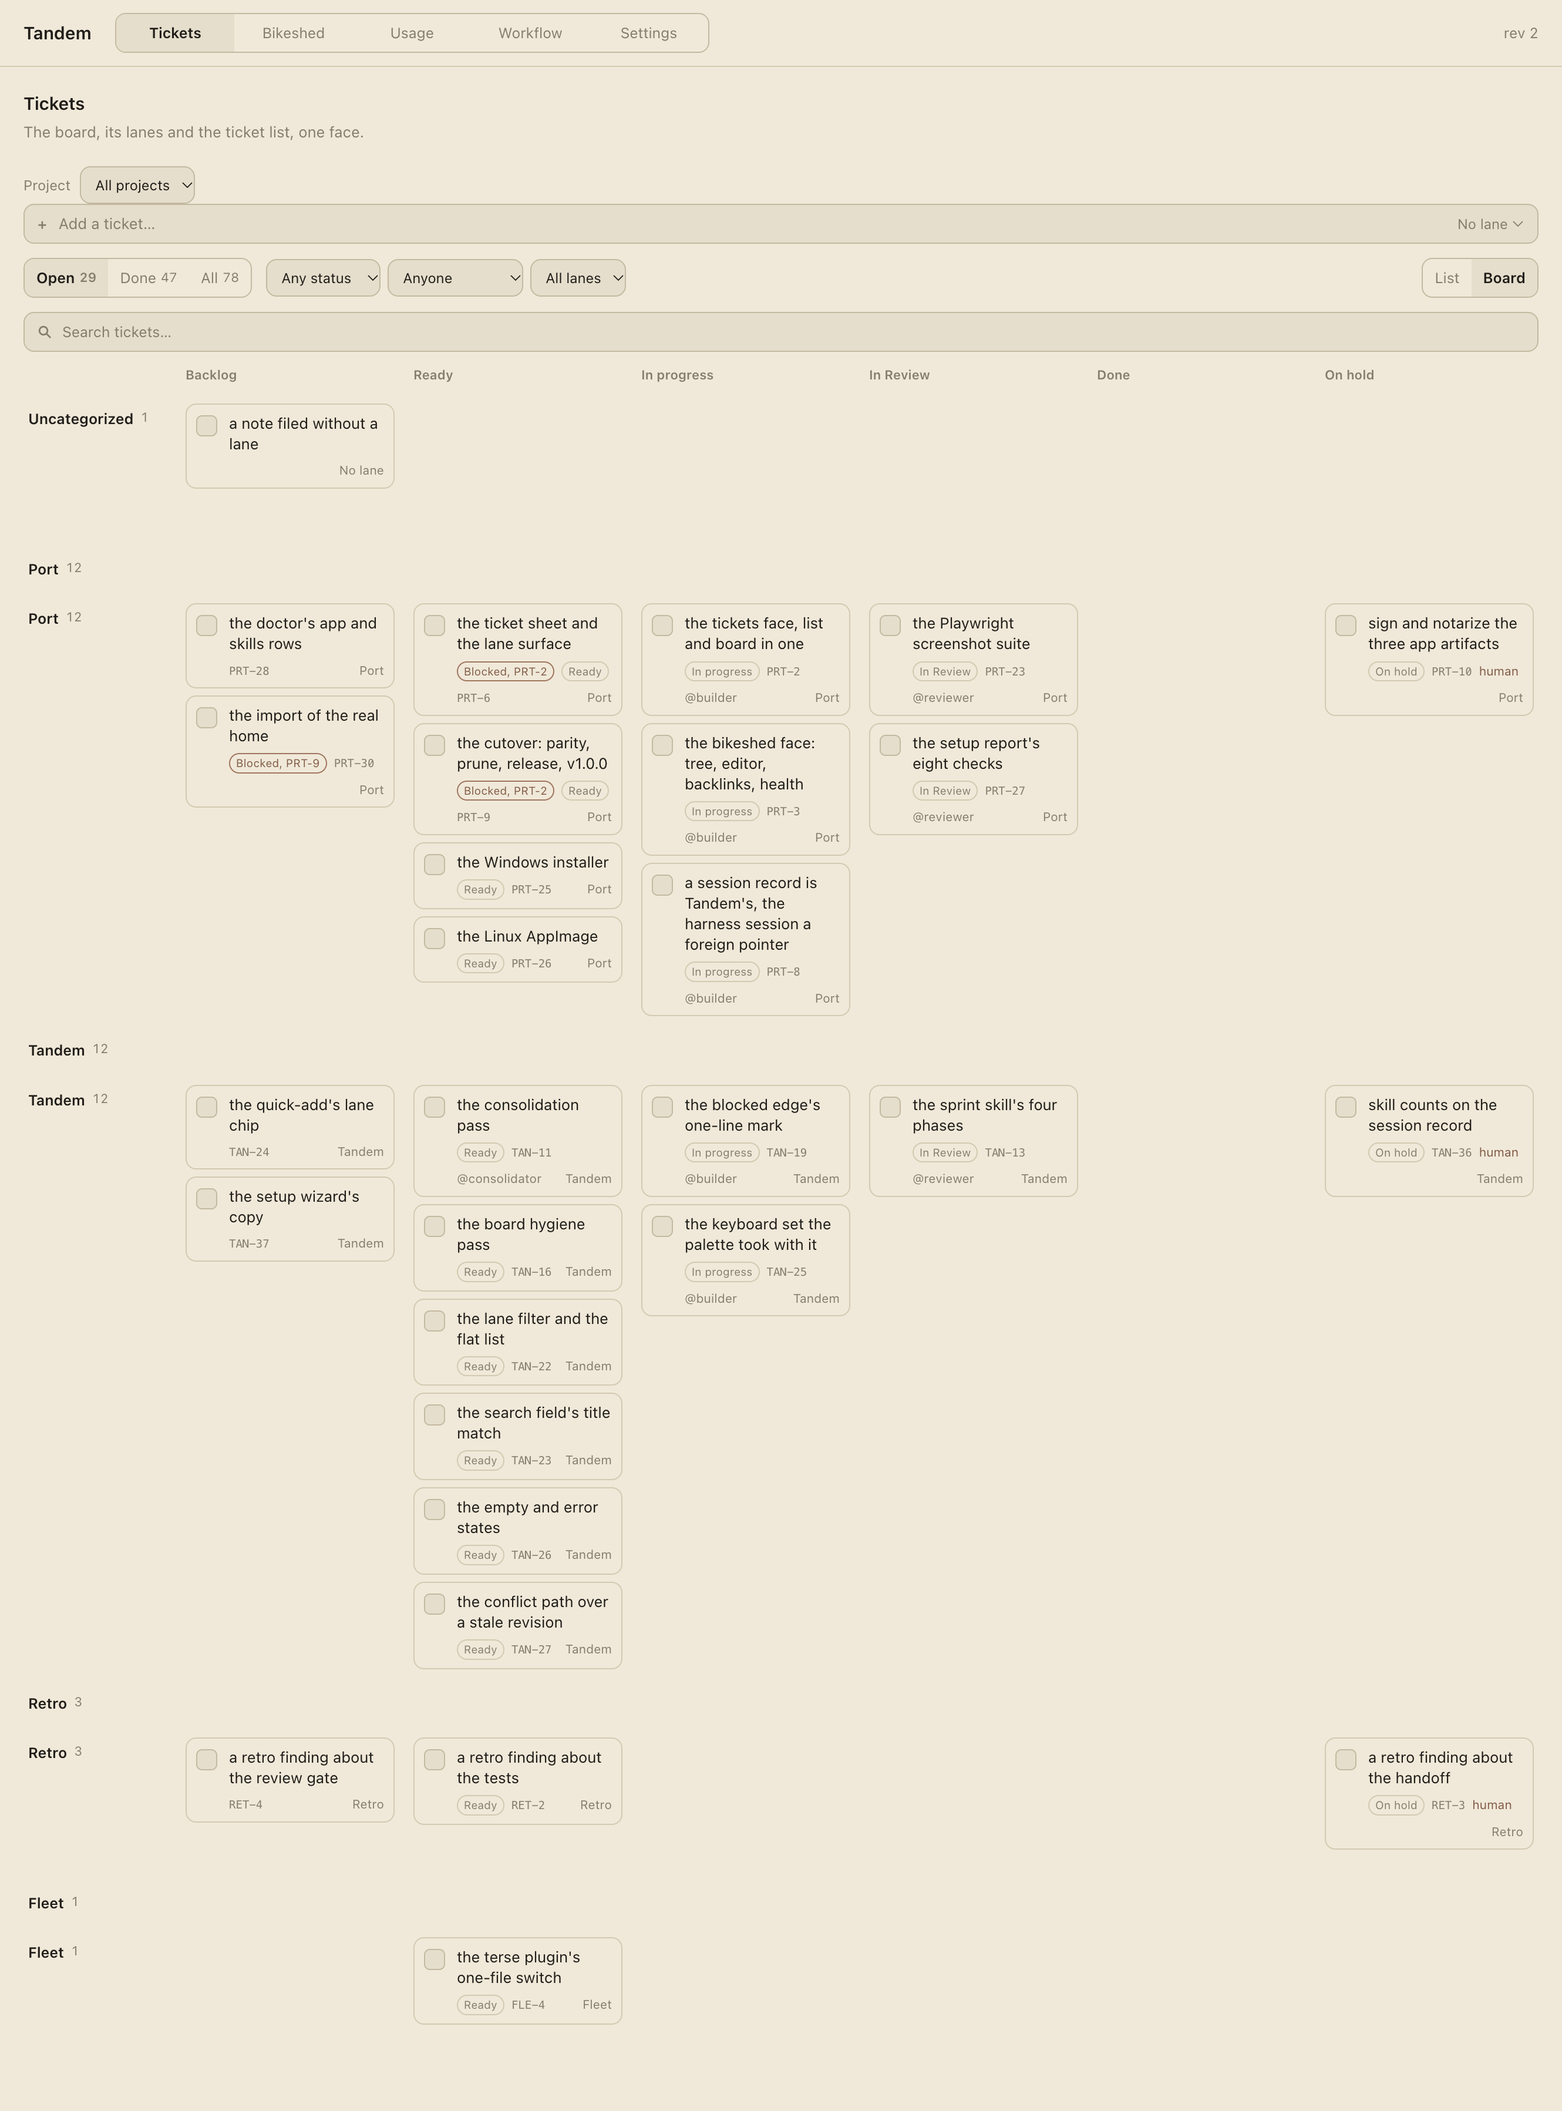
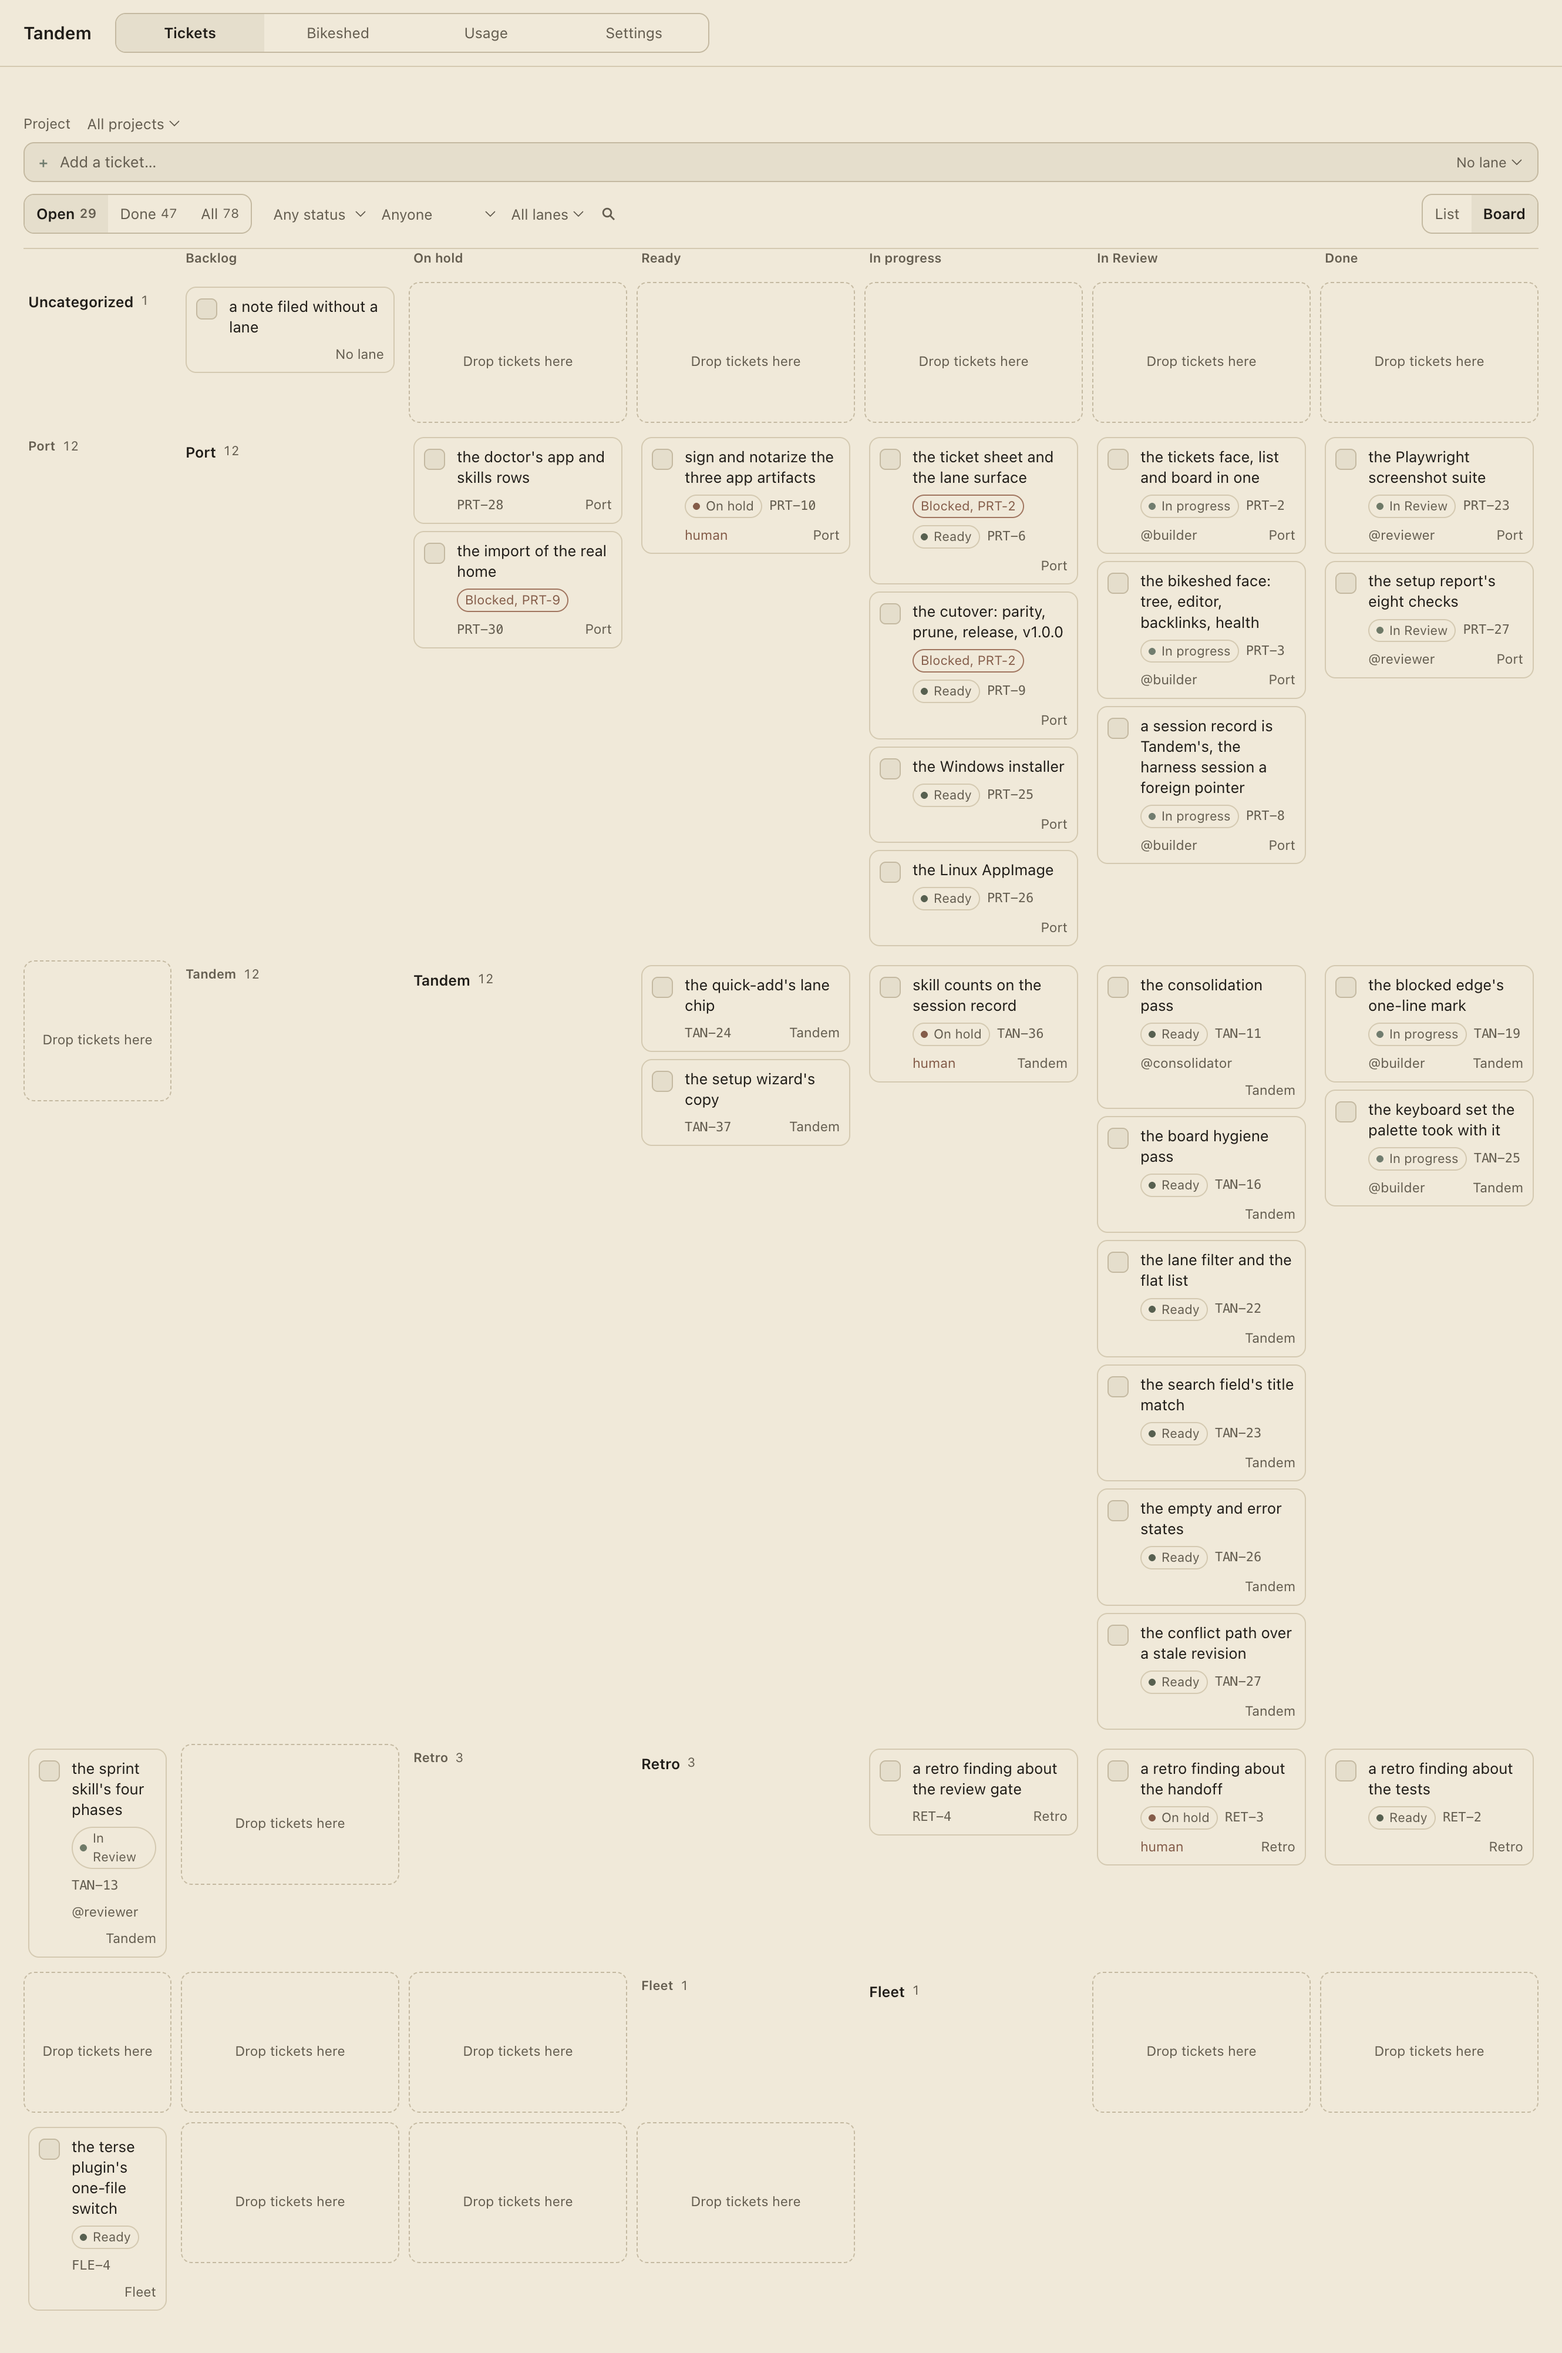
UI-15: the board draws the declared workflow order
boardStatuses() no longer shuffles on-hold to the last column: it returns
STATUSES as declared, so the board reads Backlog, On hold, Ready, In
progress, In review, Done, the order the store, the status menu and the
filters already use. The stale parked-last comments go with it, and the
board pictures are regenerated in the new order.

diff --git a/app/tests/shots/tickets.shots.ts b/app/tests/shots/tickets.shots.ts
@@ -102,9 +102,18 @@ test('the tickets face shows one board two ways: the list and the board over one
   await window.getByRole('tab', { name: 'Board' }).click()
   await expect(window.locator('.board')).toBeVisible()
   await expect(window.locator('.board__cell').first()).toBeVisible()
+  // The header row reads in the declared workflow order, On hold second.
   await expect(window.locator('.board__status')).toHaveCount(6)
-  // The parked status is the last column, not one among the workflow ones.
-  await expect(window.locator('.board__status').last()).toHaveText('On hold')
+  expect(await window.locator('.board__status').allInnerTexts()).toEqual([
+    'Backlog',
+    'On hold',
+    'Ready',
+    'In progress',
+    'In Review',
+    'Done',
+  ])
+  // Done is the last column, the end of the workflow.
+  await expect(window.locator('.board__status').last()).toHaveText('Done')
 
   // The board card is a token card: its corner is --radius-control.
   expect(await computed(window, '.ticket-row--board', 'border-radius')).toBe(
@@ -138,7 +147,7 @@ test('the tickets face shows one board two ways: the list and the board over one
   // The pictures are the Open board, the face's default.
   await window.getByRole('tab', { name: /^Open/ }).click()
   // The grid needs 1288 px for its lane title and six status columns, and the
-  // shell spends a gutter either side of it: a 1080 window scrolls On hold off
+  // shell spends a gutter either side of it: a 1080 window scrolls Done off
   // the right edge, and the picture would be half a board.
   await capture(app, window, scene('tickets-board'), 1330)
   // The frame just shot holds the whole board: a column past the edge is a
@@ -255,7 +264,7 @@ test('the keyboard set reaches the fields and moves a ticket, and a second write
   expect(ticket).not.toBeNull()
 
   const before = await cellOf(window, ticket as string)
-  const statuses = ['backlog', 'ready', 'in-progress', 'in-review', 'done', 'on-hold']
+  const statuses = ['backlog', 'on-hold', 'ready', 'in-progress', 'in-review', 'done']
   const atStatus = statuses.indexOf(before.status ?? '')
   expect(atStatus).toBeGreaterThanOrEqual(0)
   // Step away from whichever end the ticket sits at, so there is a cell to land in.

diff --git a/app/tests/board.test.ts b/app/tests/board.test.ts
@@ -161,33 +161,33 @@ describe('the board view over the snapshot', () => {
     expect(columns[2]?.tickets).toEqual([])
   })
 
-  it('draws a row per lane and a cell per status, with on-hold parked last', () => {
+  it('draws a row per lane and a cell per status, in the declared workflow order', () => {
     expect(boardStatuses().map((status) => status.value)).toEqual([
       'backlog',
+      'on-hold',
       'ready',
       'in-progress',
       'in-review',
       'done',
-      'on-hold',
     ])
 
     const rows = laneRows(['Port'], board)
     expect(rows.map((row) => row.title)).toEqual(['Uncategorized', 'Port', 'Tandem'])
     expect(rows[1]?.cells.map((cell) => cell.status)).toEqual([
       'backlog',
+      'on-hold',
       'ready',
       'in-progress',
       'in-review',
       'done',
-      'on-hold',
     ])
     expect(rows[1]?.cells.map((cell) => cell.tickets.map((t) => t.id))).toEqual([
+      [],
       [],
       ['a'],
       [],
       [],
       ['c'],
-      [],
     ])
   })
 

diff --git a/app/renderer/src/shell/board.ts b/app/renderer/src/shell/board.ts
@@ -85,12 +85,12 @@ export function statusLabel(status: string): string {
 }
 
 /**
- * The board's six columns: `STATUSES` in workflow order, with the parked
- * `on-hold` cell last. Derived from the one declared list, never a copy of it.
+ * The board's six columns: `STATUSES` in workflow order, so the board reads
+ * left to right as the store declares it. Derived from the one declared list,
+ * never a copy of it.
  */
 export function boardStatuses(): ReadonlyArray<{ value: string; label: string }> {
-  const parked = STATUSES.filter((status) => status.value === 'on-hold')
-  return [...STATUSES.filter((status) => status.value !== 'on-hold'), ...parked]
+  return STATUSES
 }
 
 /** The reserved assignee: the human, spelled the same in every face. */

diff --git a/app/shots/scenes.ts b/app/shots/scenes.ts
@@ -51,7 +51,7 @@ export const SCENES: readonly Scene[] = [
     id: 'tickets-board',
     file: 'tickets-board.png',
     description:
-      'the same face on the same 78-ticket board home in its board layout: the lanes as rows, each named with its count and holding one cell per status, the six status columns with On hold parked last, and the same rows set on cards in the cell of their lane and status',
+      'the same face on the same 78-ticket board home in its board layout: the lanes as rows, each named with its count and holding one cell per status, the six status columns in the declared workflow order from Backlog to Done, and the same rows set on cards in the cell of their lane and status',
   },
   {
     id: 'tickets-focus',

diff --git a/app/renderer/src/faces/BoardLayout.tsx b/app/renderer/src/faces/BoardLayout.tsx
@@ -20,8 +20,9 @@ export type BoardLayoutProps = {
 }
 
 /**
- * The board grid: lanes are rows and the six statuses are columns, `on-hold`
- * parked last, so the workflow reads left to right inside each lane.
+ * The board grid: lanes are rows and the six statuses are columns, reading
+ * left to right in the declared workflow order, so every lane runs Backlog to
+ * Done the same way the status menu and the filters do.
  *
  * Lanes group under project headers: projects in list order, their lanes
  * beneath in lane order, the default area first and ungrouped, empty projects

diff --git a/app/renderer/src/app.css b/app/renderer/src/app.css
@@ -1223,9 +1223,9 @@ body {
   white-space: nowrap;
 }
 
-/* The board: lanes are rows and the six statuses are columns, `on-hold` parked
- * last. The lane title holds the left edge while the statuses scroll; a column
- * never grows past a card's readable width (PRT-35). */
+/* The board: lanes are rows and the six statuses are columns, in the declared
+ * workflow order. The lane title holds the left edge while the statuses
+ * scroll; a column never grows past a card's readable width (PRT-35). */
 
 .board {
   display: grid;

diff --git a/docs/screenshots/README.md b/docs/screenshots/README.md
@@ -95,7 +95,7 @@ DOM, the same row ids and the same counts on unstyled text.
 | `bikeshed-face.png` | the **Bikeshed** face over the fixture home: the scaffold tree with its reveal control, the committed CodeMirror bundle editing the fixture project note in its own frame, the Backlinks dock naming the Index note, the Health panel reporting the daily note as an orphan, and a draft a killed save left named as a recovery |
 | `settings-face.png` | the **Settings** face over the fixture home: the home, the bikeshed, the three agent hosts, the theme rule, the bundled and installed versions, and the doctor's checks each named with its state and detail |
 | `tickets-list.png` | the **Tickets** face in its list layout over the port's 78-ticket board home (`Fixtures/port/Board`): the quick-add, the Open/Done/All scopes with their counts, the status, assignee and lane filters, the search, and the lane-grouped rows with each ticket's ref, title, status, assignee, lane and blocked mark |
-| `tickets-board.png` | the same face on the same 78-ticket board home in its board layout: the lanes as rows, each named with its count and holding one cell per status, the six status columns with On hold parked last, and the same rows set on cards in the cell of their lane and status |
+| `tickets-board.png` | the same face on the same 78-ticket board home in its board layout: the lanes as rows, each named with its count and holding one cell per status, the six status columns in the declared workflow order from Backlog to Done, and the same rows set on cards in the cell of their lane and status |
 | `tickets-focus.png` | the **Tickets** face with a project focus set: the focus control naming the active lane with its show-all escape, and the board drawing that lane row alone |
 | `tickets-keyboard.png` | the keyboard-only pass over the 78-ticket board home: a row selected with the arrows, the quick-add reached with the platform modifier and N, the search with the platform modifier and F, and a ticket moved one status over, inside its own lane, with Option and the arrows |
 | `ticket-sheet-passes.png` | the ticket sheet over the fixture home with its pass-request buttons: refine enabled on a new backlog ticket, build and review disabled with their reasons in place, each a request the next dispatch picks up |
